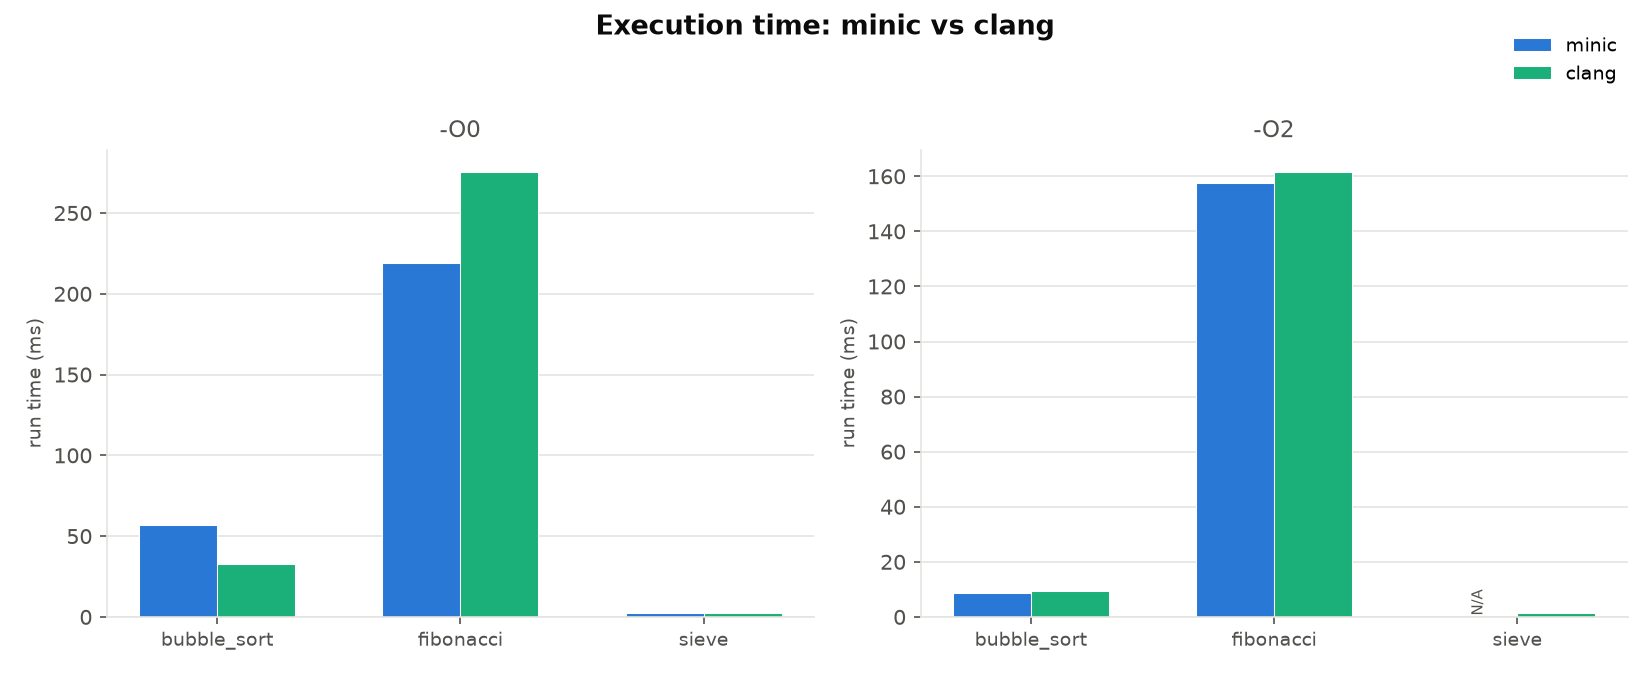
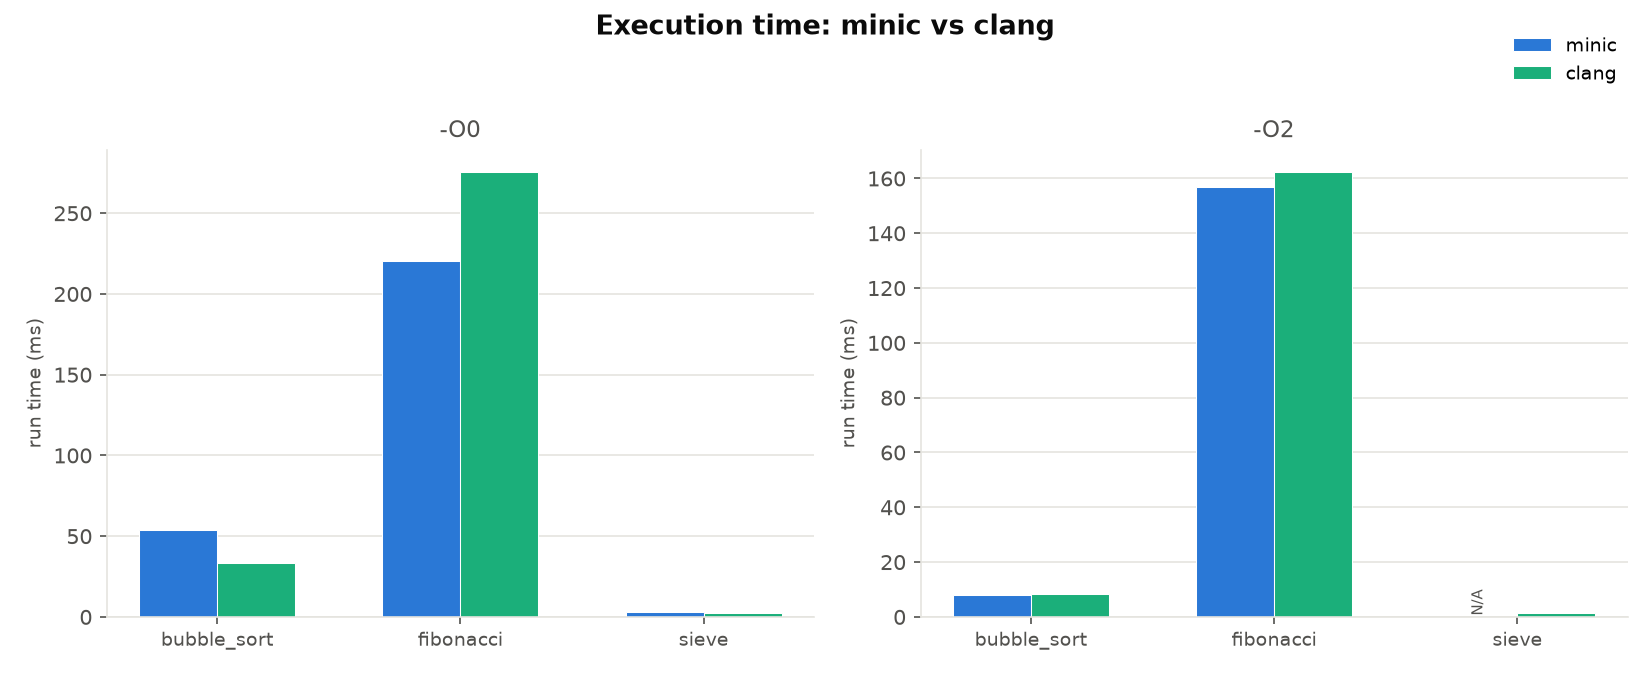
docs: regenerate benchmark numbers and charts after print_* migration

diff --git a/README.md b/README.md
@@ -128,20 +128,23 @@ compile time
 **Key findings:**
 
 - **At `-O2`, execution speed tracks clang closely across all three
-  programs** (within ±8%) — expected, since `-O1`–`-O3` run LLVM's
+  programs** (within ±3%) — expected, since `-O1`–`-O3` run LLVM's
   genuine new-pass-manager pipeline (`mem2reg`, `instcombine`,
   `simplifycfg`, tail-call elimination, loop unrolling), not a
   hand-rolled approximation of one.
-- **At `-O0` the picture is more mixed**: `bubble_sort` runs 73% slower
+- **At `-O0` the picture is more mixed**: `bubble_sort` runs 63% slower
   unoptimized, while `fibonacci` runs 20% *faster* unoptimized than
   clang's own `-O0` output — a reminder that "no optimizer" doesn't mean
   "identical codegen," and that this is worth digging into further
   rather than papering over with an average.
 - **Compile speed is generally slower than clang** on this hardware, not
-  faster — up to ~19× on `bubble_sort -O2`. Real measured numbers, not
+  faster — up to ~14× on `bubble_sort -O2`. Real measured numbers, not
   the "N× faster" claim compiler-project READMEs traditionally reach
   for, since a hand-typed one would just go stale the next time the code
-  changes.
+  changes. `minic`'s own compile step also now links a small runtime
+  shim (`print_int`/`print_float`/`print_char`/`print_str`, replacing a
+  `printf` builtin) into every binary, which accounts for a few
+  milliseconds of the gap.
 - **Building this benchmark suite surfaced two real, pre-existing bugs**
   in `c-compiler` that nothing had caught before (the `-O2`/`int **` and
   nested-loop bugs described above), documented at the point of
@@ -153,23 +156,23 @@ compile time
 
 | Algorithm | Opt | minic | clang | Delta |
 |---|---|---:|---:|---|
-| Bubble sort (5,000 el., reverse-sorted) | `-O0` | 56.8 ms | 32.8 ms | 73% slower |
-| Bubble sort (5,000 el., reverse-sorted) | `-O2` | 8.7 ms | 9.4 ms | **7% faster** |
-| Fibonacci(39), naive recursive | `-O0` | 219.3 ms | 275.4 ms | **20% faster** |
-| Fibonacci(39), naive recursive | `-O2` | 157.6 ms | 161.6 ms | **2% faster** |
-| Sieve of Eratosthenes (N=40,000) | `-O0` | 2.7 ms | 2.5 ms | 8% slower |
+| Bubble sort (5,000 el., reverse-sorted) | `-O0` | 53.8 ms | 33.1 ms | 63% slower |
+| Bubble sort (5,000 el., reverse-sorted) | `-O2` | 8.2 ms | 8.4 ms | **2% faster** |
+| Fibonacci(39), naive recursive | `-O0` | 220.7 ms | 275.6 ms | **20% faster** |
+| Fibonacci(39), naive recursive | `-O2` | 156.8 ms | 162.4 ms | **3% faster** |
+| Sieve of Eratosthenes (N=40,000) | `-O0` | 2.8 ms | 2.6 ms | 8% slower |
 | Sieve of Eratosthenes (N=40,000) | `-O2` | — | 1.4 ms | known bug, see below |
 
 #### Compile time — the toolchain race
 
 | Algorithm | Opt | minic | clang | Delta |
 |---|---|---:|---:|---|
-| Bubble sort | `-O0` | 51.5 ms | 32.2 ms | 1.6× slower |
-| Bubble sort | `-O2` | 710.5 ms | 37.3 ms | 19.0× slower |
-| Fibonacci(39) | `-O0` | 41.9 ms | 31.6 ms | 1.3× slower |
-| Fibonacci(39) | `-O2` | 46.1 ms | 34.8 ms | 1.3× slower |
-| Sieve of Eratosthenes | `-O0` | 157.1 ms | 31.8 ms | 4.9× slower |
-| Sieve of Eratosthenes | `-O2` | — (hangs) | 41.6 ms | known bug, see below |
+| Bubble sort | `-O0` | 65.4 ms | 43.1 ms | 1.5× slower |
+| Bubble sort | `-O2` | 709.8 ms | 50.8 ms | 14.0× slower |
+| Fibonacci(39) | `-O0` | 55.6 ms | 43.4 ms | 1.3× slower |
+| Fibonacci(39) | `-O2` | 61.2 ms | 46.7 ms | 1.3× slower |
+| Sieve of Eratosthenes | `-O0` | 176.1 ms | 42.8 ms | 4.1× slower |
+| Sieve of Eratosthenes | `-O2` | — (hangs) | 55.6 ms | known bug, see below |
 
 ![Execution time: minic vs clang](testing/benchmarks/charts/execution_time.png)
 ![Compile time: minic vs clang](testing/benchmarks/charts/compile_time.png)
